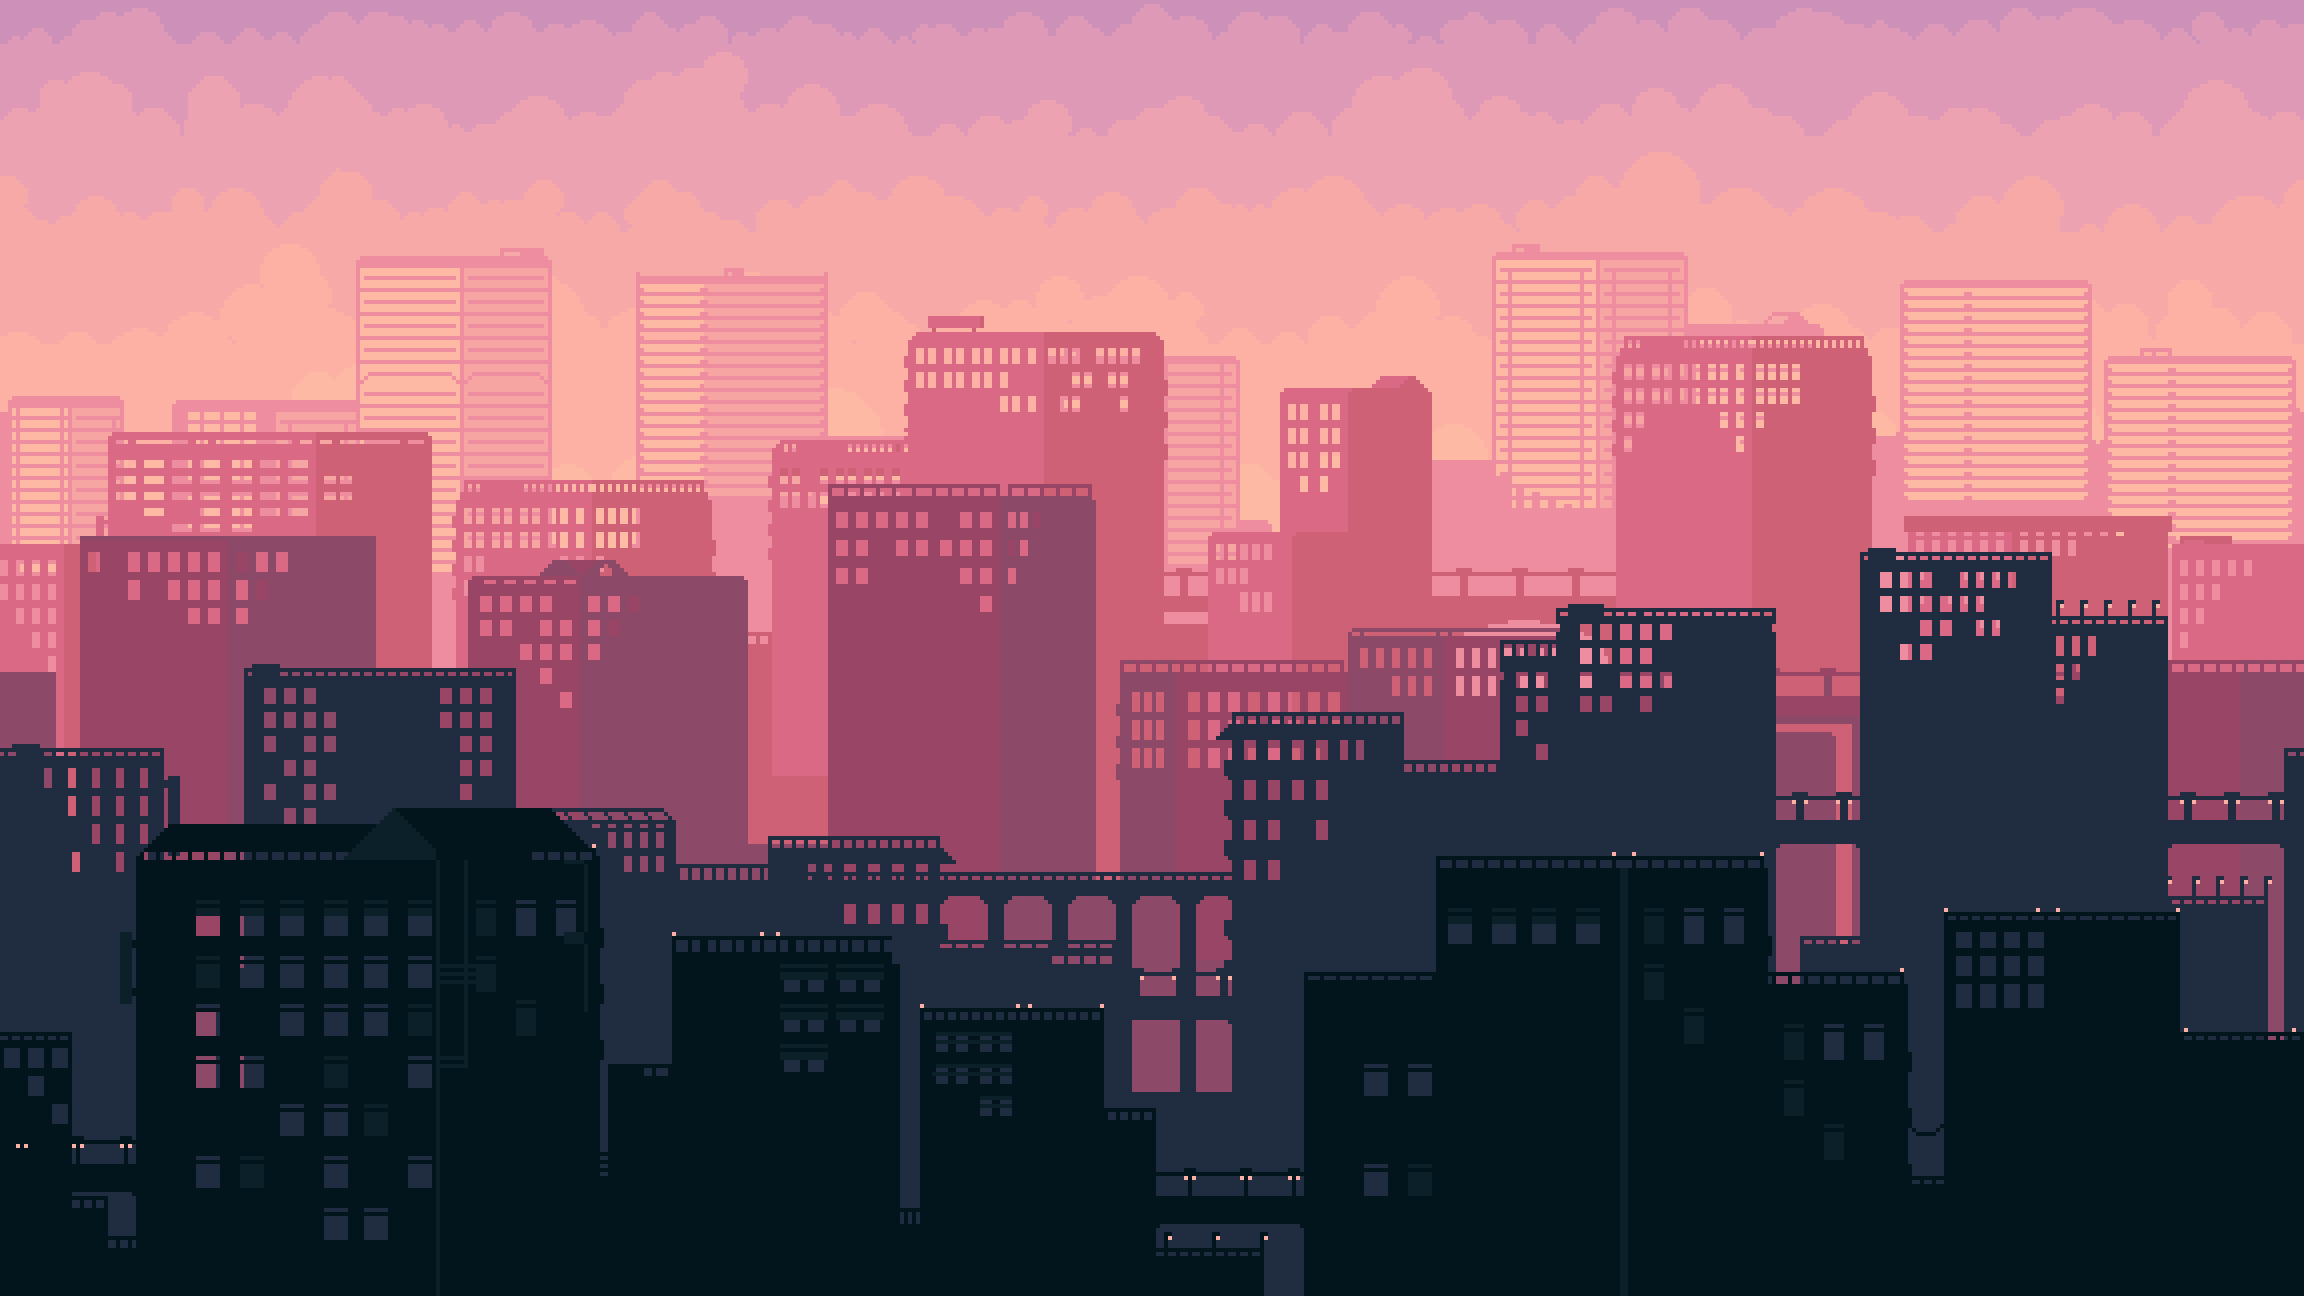
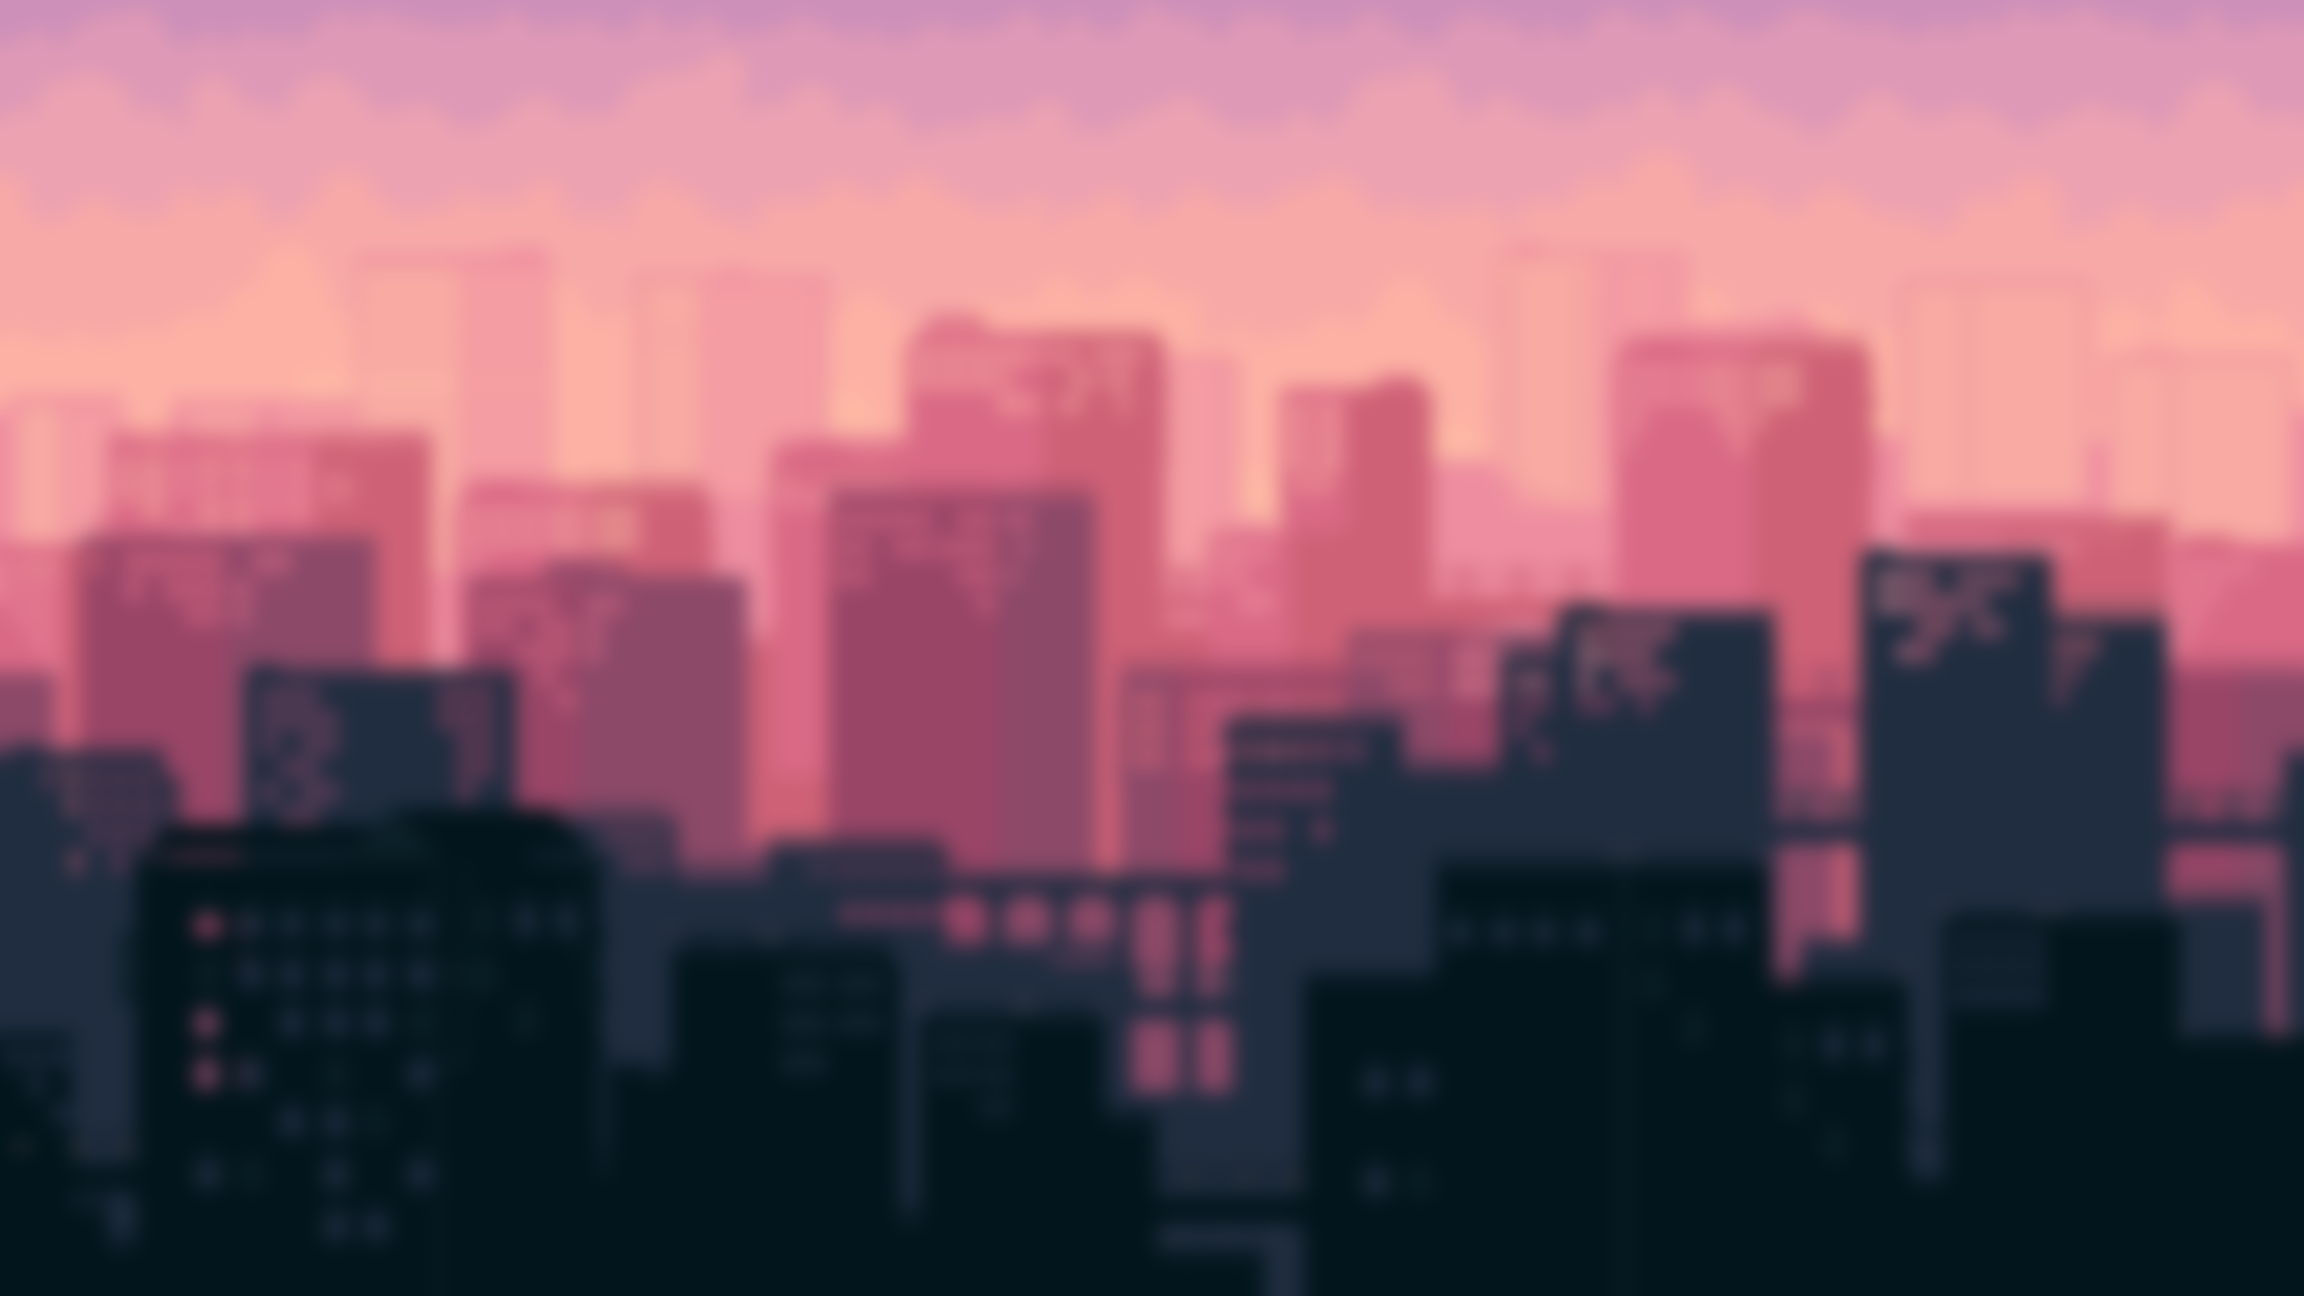
Small changes

diff --git a/lib/module/game/component/background.dart b/lib/module/game/component/background.dart
@@ -4,7 +4,6 @@ import 'package:colo/module/game/page.dart';
 import 'package:flame/components.dart';
 import 'package:flame/flame.dart';
 import 'package:flame/parallax.dart';
-import 'package:flame/rendering.dart';
 
 /// Renders a background
 class Background extends ParallaxComponent<ColoGamePage> {
@@ -21,7 +20,6 @@ class Background extends ParallaxComponent<ColoGamePage> {
   @override
   Future<void> onLoad() async {
     final background = await Flame.images.load(disabled ? 'background_disabled.png' : asset);
-    decorator = PaintDecorator.blur(5.0);
     parallax = Parallax(
         [
           ParallaxLayer(
@@ -30,7 +28,7 @@ class Background extends ParallaxComponent<ColoGamePage> {
                 fill: LayerFill.height,
                 filterQuality: FilterQuality.high,
               )
-          )
+          ),
         ]
     );
     parallax?.baseVelocity.x = backgroundParallax;

diff --git a/lib/module/game/component/score.dart b/lib/module/game/component/score.dart
@@ -18,7 +18,12 @@ class Score extends TextComponent with HasGameRef<ColoGamePage> {
     final biggestSide = game.size.y > game.size.x ? game.size.y : game.size.x;
     textRenderer = TextPaint(
       style: TextStyle(
-          color: Colors.white,
+          foreground: Paint()..shader = LinearGradient(
+            colors: barColors.values.toList(),
+            begin: Alignment.topLeft,
+            end: Alignment.bottomRight,
+            tileMode: TileMode.clamp,
+          ).createShader(Rect.fromPoints(const Offset(50, 0), Offset(size.x, size.y))),
           shadows: const <Shadow>[
             Shadow(
               offset: Offset(1.0, 1.0),

diff --git a/lib/module/game/component/manager/manager.dart b/lib/module/game/component/manager/manager.dart
@@ -171,7 +171,7 @@ class GameManager extends Component with HasGameRef<ColoGamePage> {
   /// Increases the game level
   void _increaseLevel() async {
     /// Sets medium level
-    if (_destroyedBars.value == 10 && _level == GameLevel.easy) {
+    if (_destroyedBars.value == 1 && _level == GameLevel.easy) {
       if (_buttonManager.actionButtons.length == 2) {
         _level = GameLevel.medium;
         await _buttonManager.addExtraActionButton();
